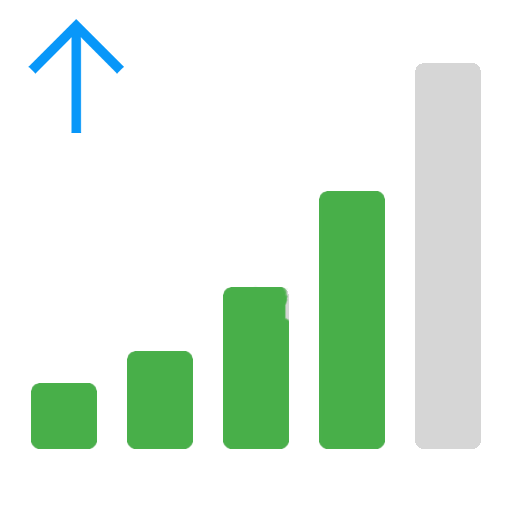
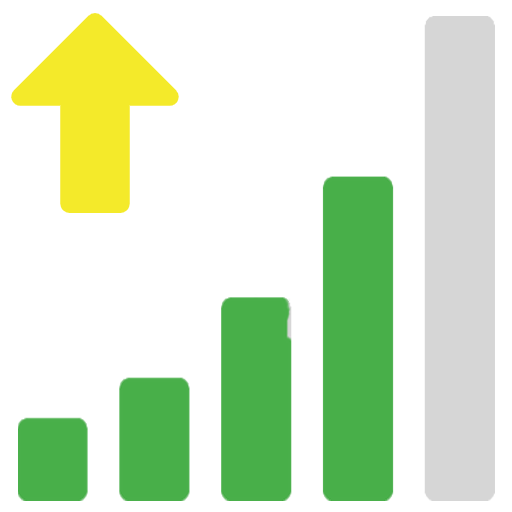
123

diff --git a/VideoConnectionWeb/QZ/mobile.html b/VideoConnectionWeb/QZ/mobile.html
@@ -60,10 +60,10 @@
         视频连线测试2
       </div>
       <div class="flex-1 flex items-center justify-end">
-        <div class="flex items-center justify-content-center relative h-[50%] mr-2">
+        <div class="flex items-center justify-content-center relative h-[43%] mr-2">
           <img id="network-up" class="h-full" src="./img/network/up/network_4.png">
         </div>
-        <div class="flex items-center justify-content-center relative h-[50%] mr-2">
+        <div class="flex items-center justify-content-center relative h-[43%] mr-2">
           <img id="network-down" class="h-full" src="./img/network/down/network_4.png">
         </div>
         <div
@@ -440,7 +440,6 @@
     <script src="./lib/jquery/jquery.signalR.min.js"></script>
     <script src="./lib/layui/layui.js"></script>
     <script src="https://testvideo.gzshifang.com:9031/lib/aspnet/signalr/dist/browser/signalr.min.js"></script>
-    <script src="./js/mobile/chatHub.js"></script>
     <script src="./lib/trtc/lib-generate-test-usersig.min.js"></script>
     <script src="./lib/trtc/GenerateTestUserSig.js"></script>
     <script src="./js/iconfont.js"></script>
@@ -452,6 +451,7 @@
     <script src="./js/elementHandle.js"></script>
     <script src="./js/elementEvent.js"></script>
     <script src="./js/template.js"></script>
+    <script src="./js/mobile/chatHub.js"></script>
     <script src="./js/rtc-detection.js"></script>
     <script src="./js/mobile/rtc-client.js"></script>
     <script src="./js/prohibit.js"></script>

diff --git a/VideoConnectionWeb/QZ/index.html b/VideoConnectionWeb/QZ/index.html
@@ -20,7 +20,7 @@
     <style type="text/tailwindcss">
       @layer utilities {
         .toolbar_btn {
-          @apply h-[85%] flex-1 flex flex-col items-center justify-center w-[6rem];
+          @apply h-full flex-1 flex flex-col items-center justify-center w-[5rem];
         }
         .modalbox {
           @apply bg-[#393e4b] hidden drop-shadow-md fixed top-[10%] left-[0.5%] z-40 w-[25%] h-[80%] flex flex-col items-center;
@@ -63,10 +63,10 @@
         视频连线测试2
       </div>
       <div class="flex-1 flex items-center justify-end">
-        <div class="flex items-center justify-content-center relative h-[50%] mr-4">
+        <div class="flex items-center justify-content-center relative h-[43%] mr-4">
           <img id="network-up" class="h-full" src="./img/network/up/network_4.png">
         </div>
-        <div class="flex items-center justify-content-center relative h-[50%] mr-4">
+        <div class="flex items-center justify-content-center relative h-[43%] mr-4">
           <img id="network-down" class="h-full" src="./img/network/down/network_4.png">
         </div>
         <div class="flex items-center justify-content-center relative h-[43%] mr-4">

diff --git a/VideoConnectionWeb/QZ/big.html b/VideoConnectionWeb/QZ/big.html
@@ -57,10 +57,10 @@
         视频连线测试2
       </div>
       <div class="flex-1 flex items-center justify-end">
-        <div class="flex items-center justify-content-center relative h-[50%] mr-4">
+        <div class="flex items-center justify-content-center relative h-[43%] mr-4">
           <img id="network-up" class="h-full" src="./img/network/up/network_4.png">
         </div>
-        <div class="flex items-center justify-content-center relative h-[50%] mr-4">
+        <div class="flex items-center justify-content-center relative h-[43%] mr-4">
           <img id="network-down" class="h-full" src="./img/network/down/network_4.png">
         </div>
         <div

diff --git a/VideoConnectionWeb/QZ/js/device-testing.js b/VideoConnectionWeb/QZ/js/device-testing.js
@@ -364,7 +364,8 @@ function getDeviceConnectInfo() {
       !hasVoiceDevice ? "\n苹果设备请忽略" : ""
     }`;
     return connectInfo;
-  }``
+  }
+  ``;
   // 第二步：浏览器未拿到摄像头/麦克风权限的提示
   if (!(hasCameraConnect && hasMicConnect)) {
     connectInfo = hasNetworkConnect
@@ -1023,5 +1024,7 @@ function handleGetUserMediaError(error) {
     default:
       msg = "初始化本地流时遇到未知错误, 请重试。";
   }
-  layer.msg(msg);
+  !location.href.toLowerCase().includes("small2") &&
+    location.href.toLowerCase().includes("big") &&
+    layer.msg(msg);
 }

diff --git a/VideoConnectionWeb/QZ/js/big/chatHub.js b/VideoConnectionWeb/QZ/js/big/chatHub.js
@@ -107,7 +107,7 @@ function huoquhuiyihuancunxinxi(mess) {
   display_layout.cols = roomDetail_.XSDModel.XSPFormat.split("*")[0];
   display_layout.rows = roomDetail_.XSDModel.XSPFormat.split("*")[0];
   zhanshiduan_mode(roomDetail_.XSDModel.Model);
-  viewsHandle(mess);
+  viewsHandle();
 }
 
 /**
